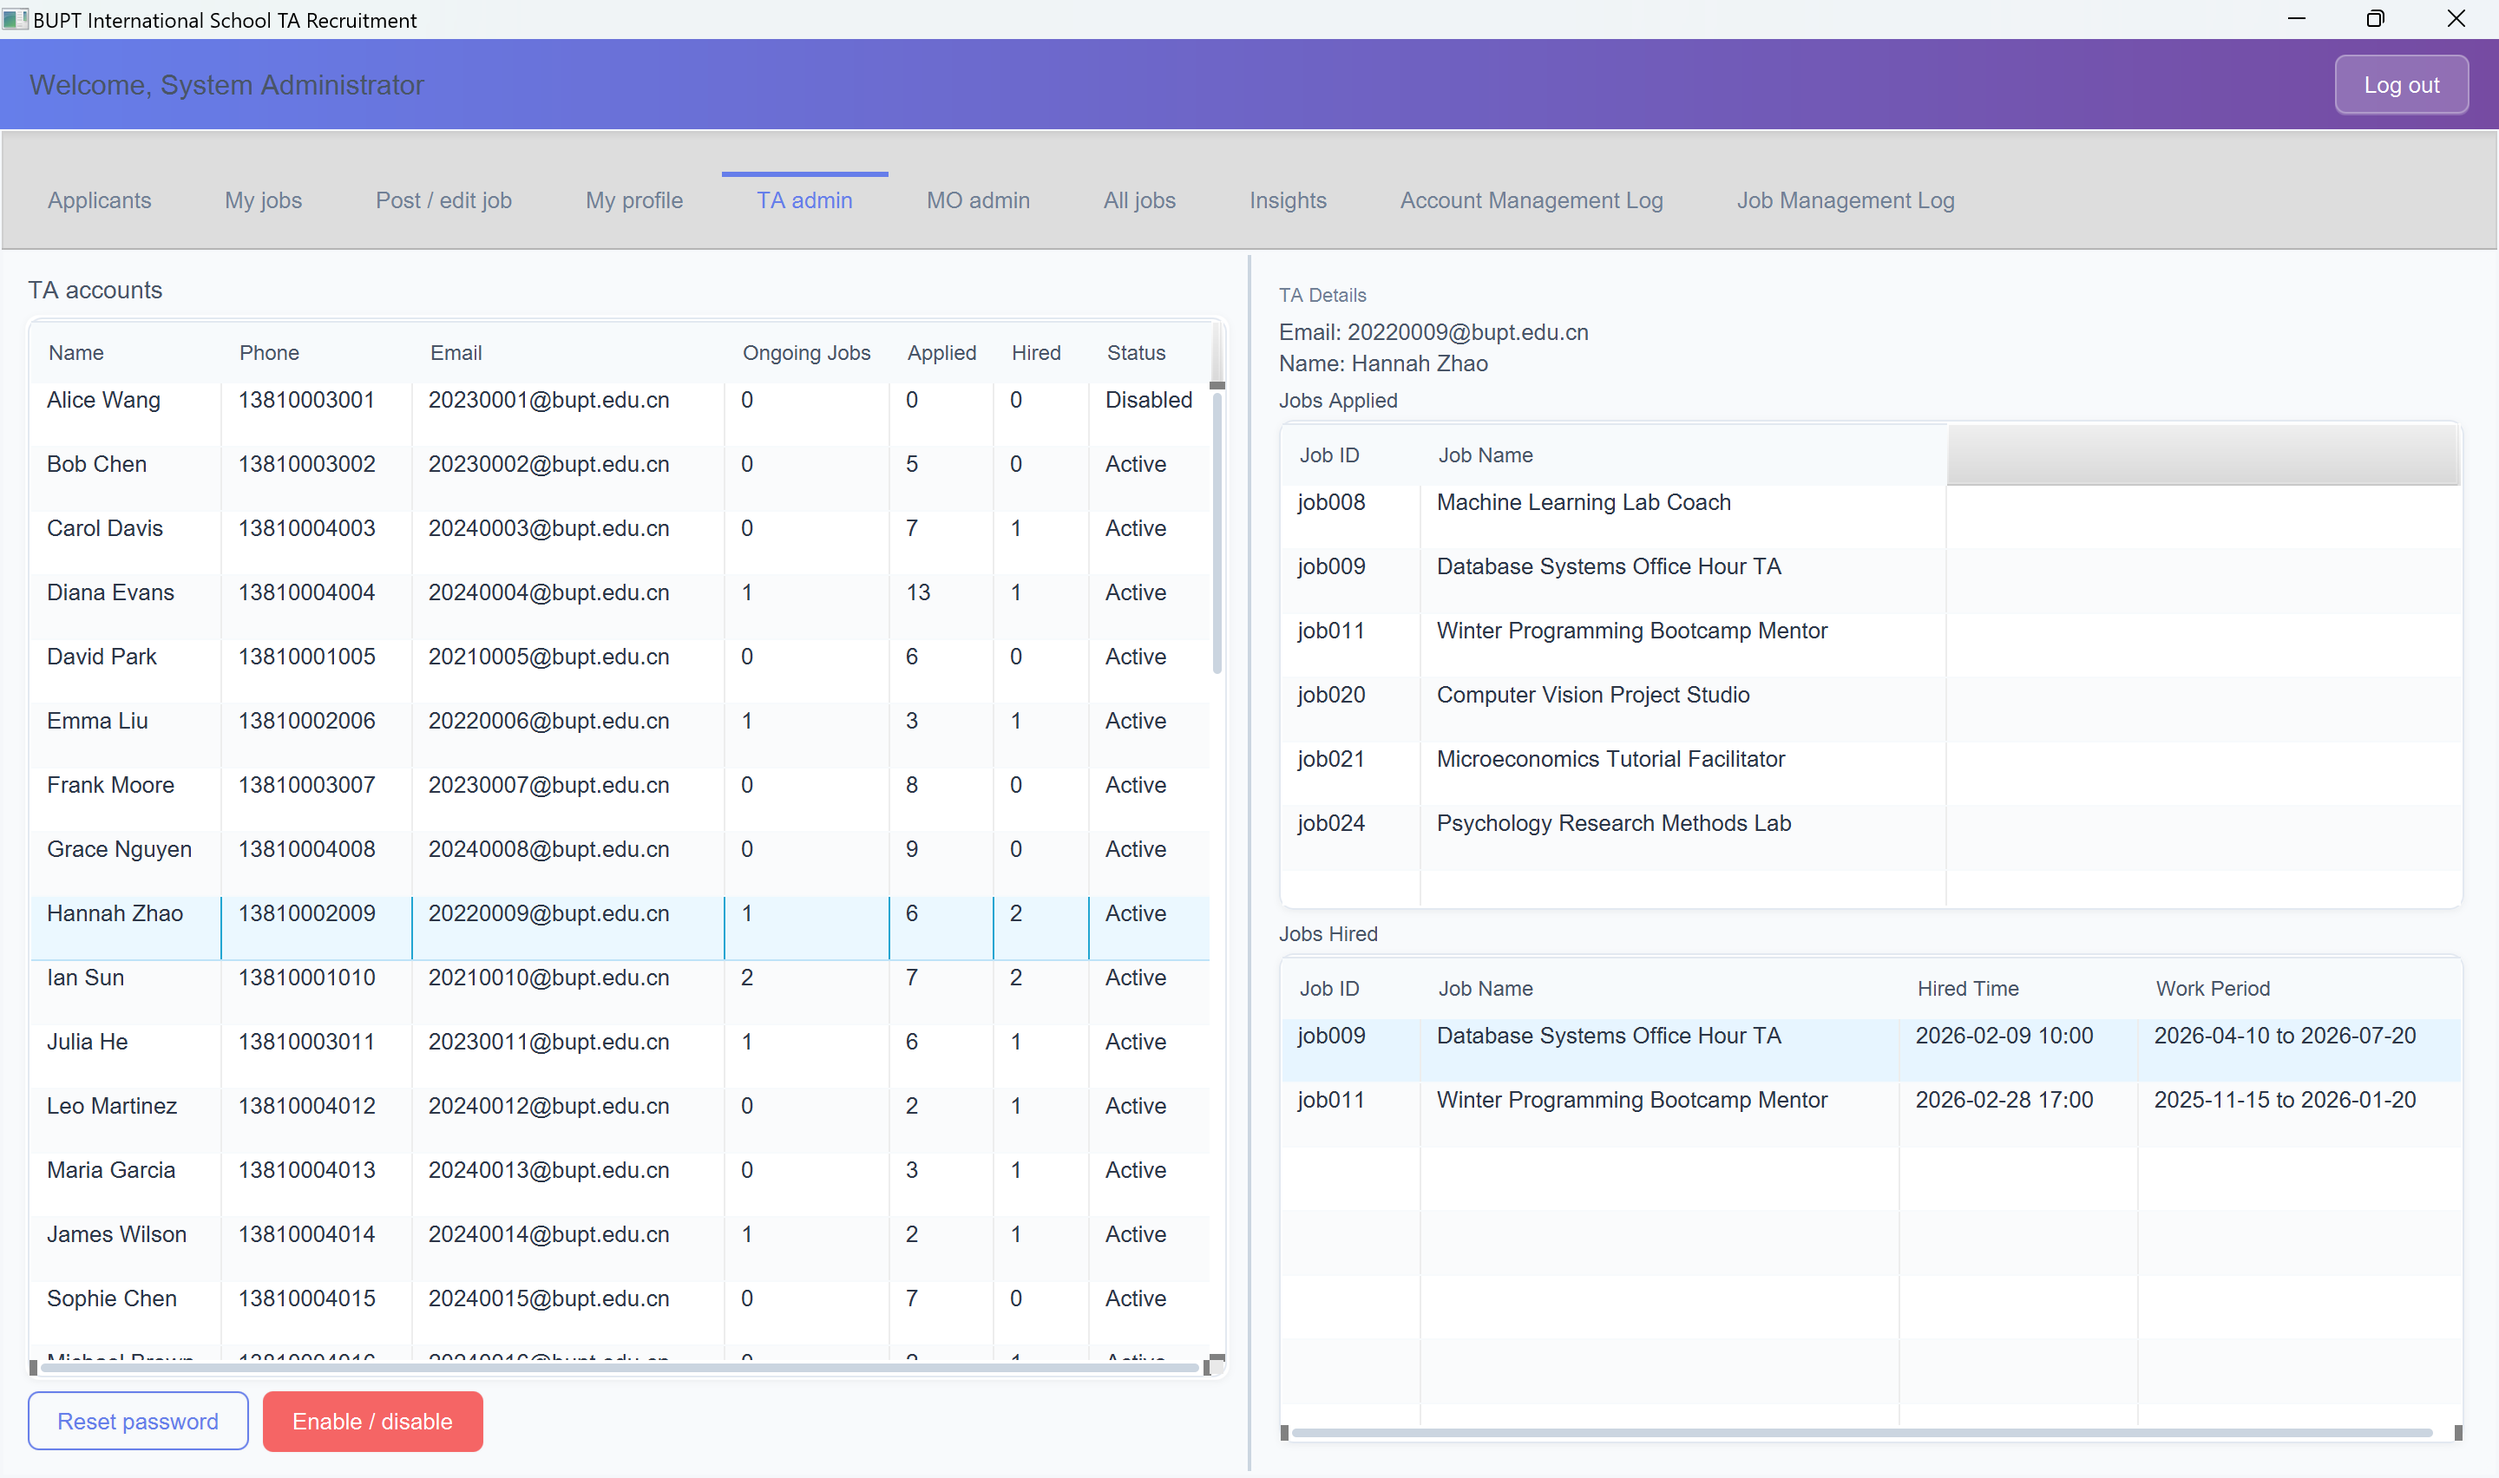
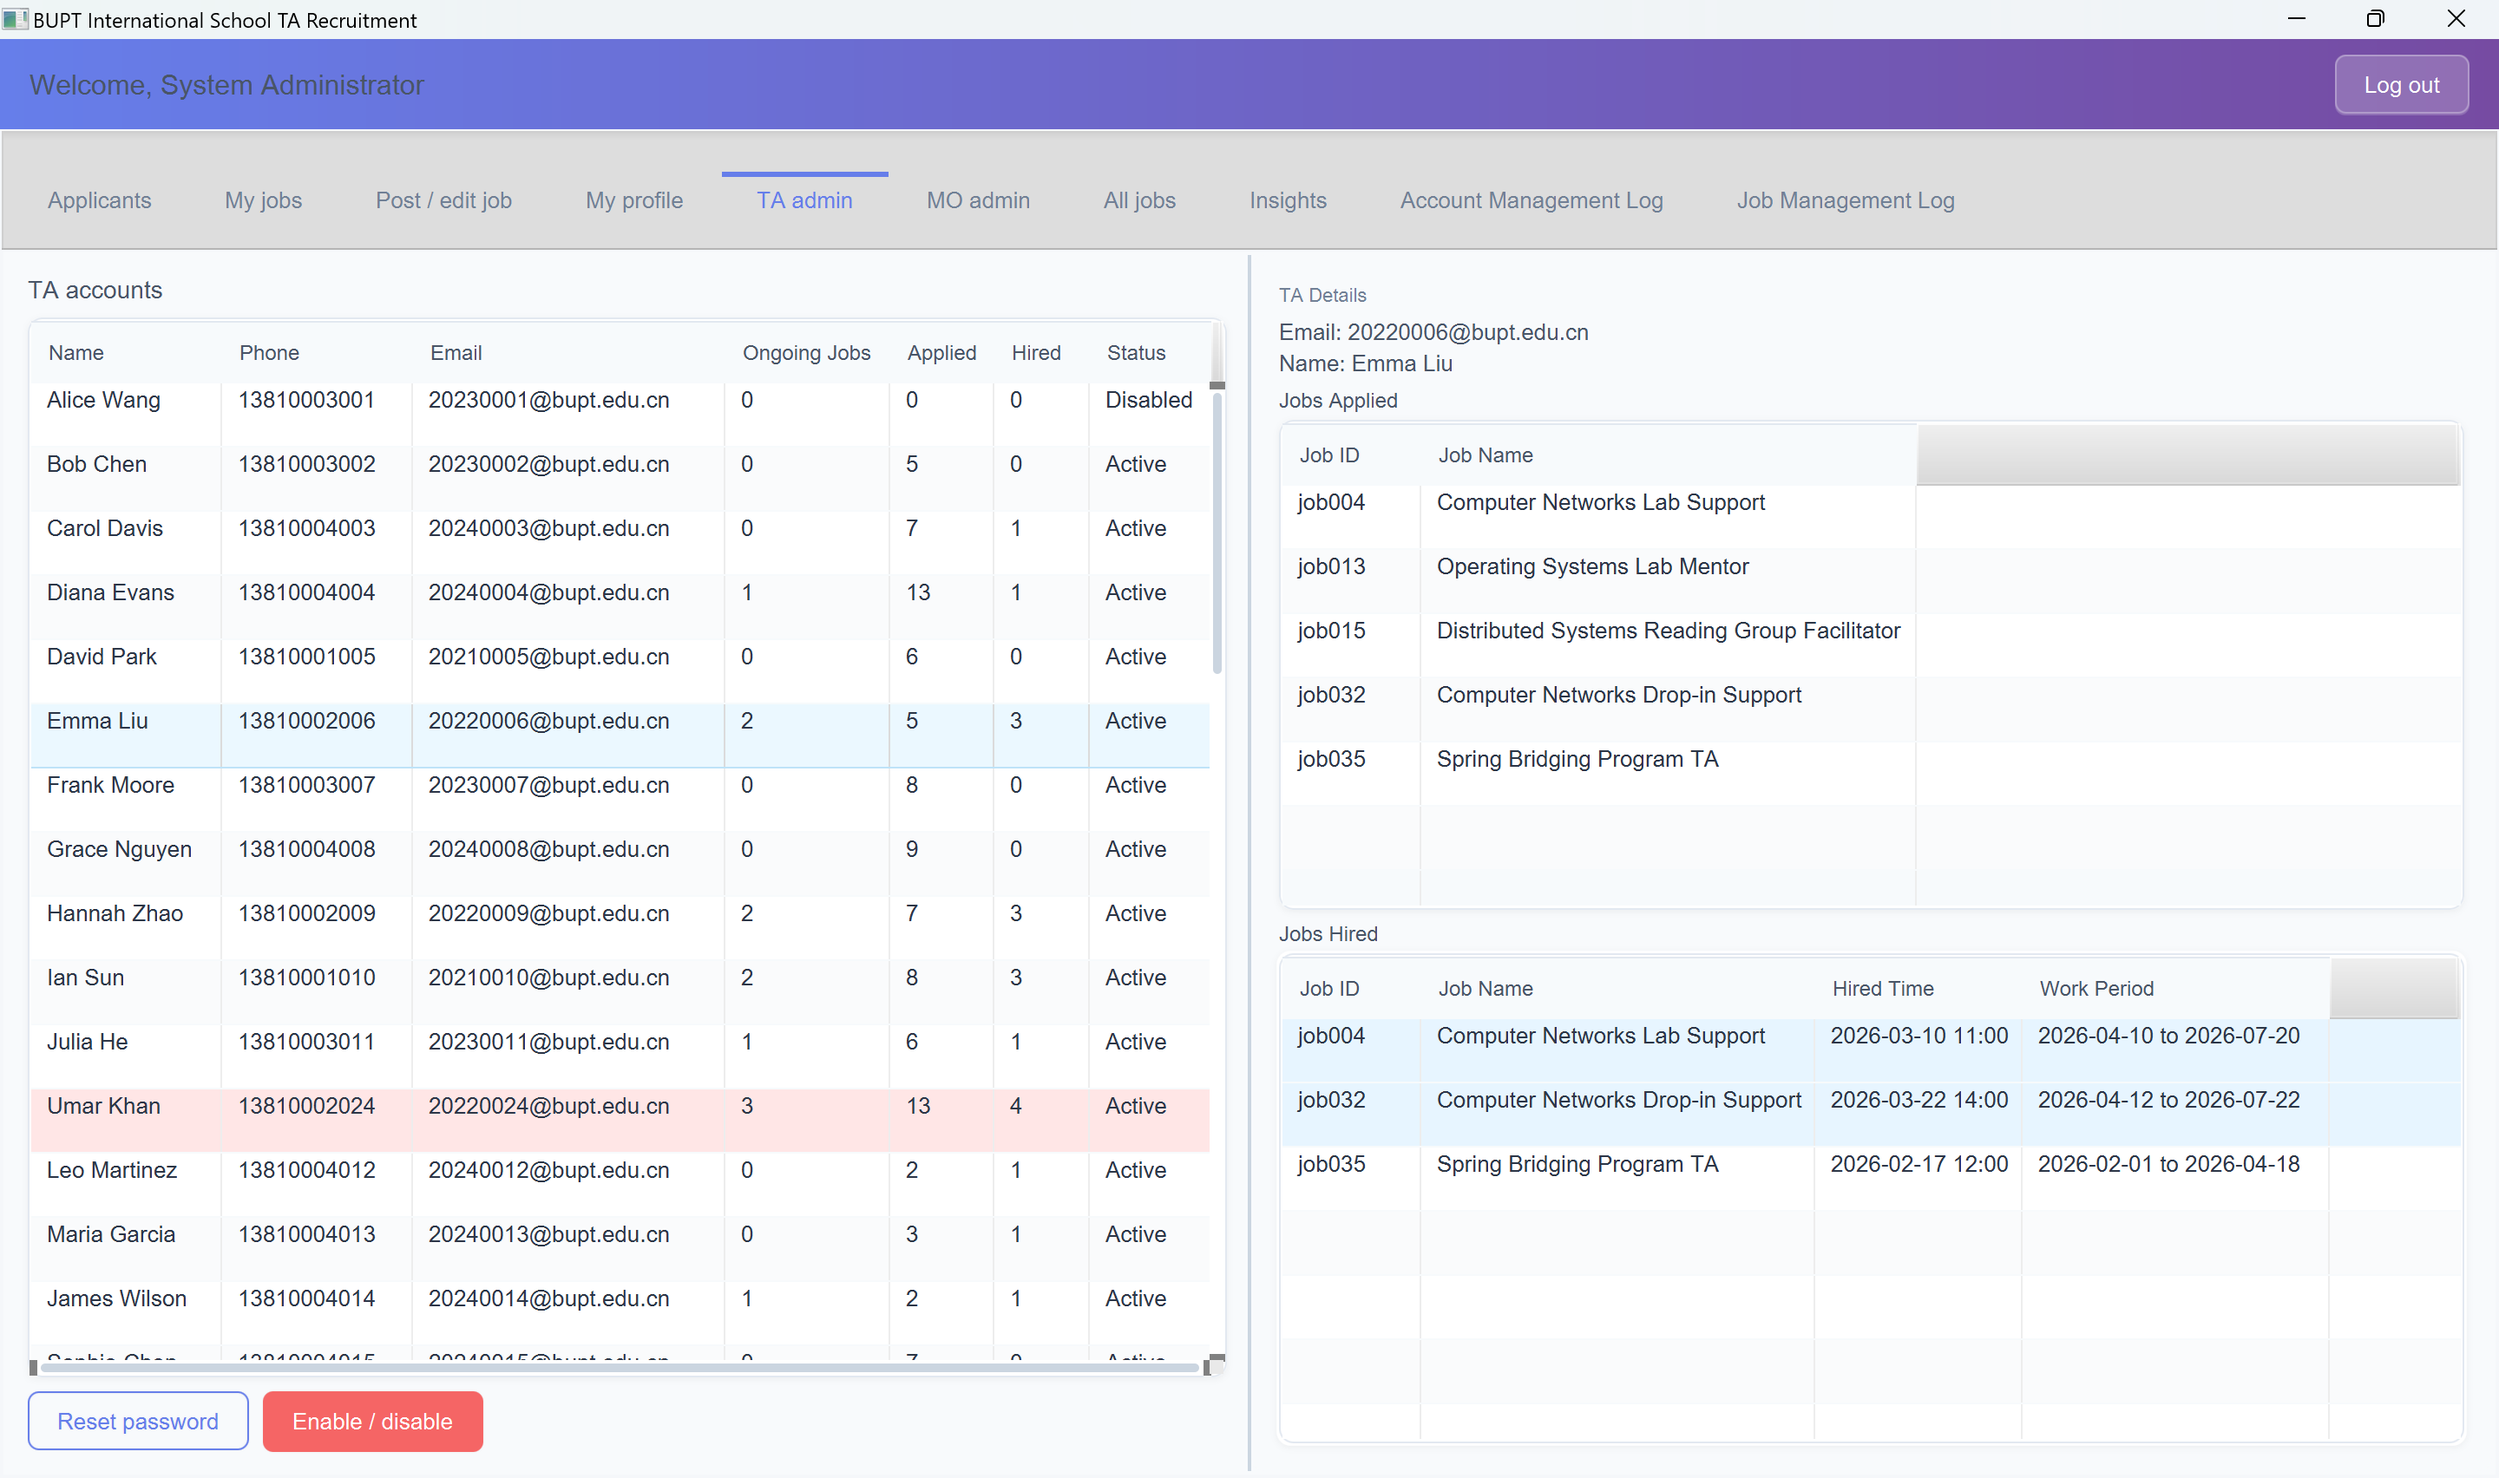
fix: implement log persistence and adjust TA admin in user manual

diff --git a/doc/User_Manual.md b/doc/User_Manual.md
@@ -734,9 +734,20 @@ Sign in to the **MO/Admin Portal** with your **administrator account**. The dash
 
 ### 6.1 TA admin
 
-**Left:** TA accounts table — Name, Phone, Email, Ongoing Jobs, Applied, Hired, Status.
+The screen is split into a **left** TA accounts list and a **right** detail panel. Click a row on the left to select that TA — the selected row is highlighted **blue** — and the right side shows that person’s **Jobs Applied** and **Jobs Hired** tables (application and hire history).
 
-**Right:** TA Details — applied jobs table, hired jobs table (with Hired Time, Work Period).
+**Left — TA accounts table:** Name, Phone, Email, **Ongoing Jobs** (currently in-progress hired positions), **Applied** (how many jobs they have ever applied to, including ended jobs), **Hired** (how many jobs they have ever been hired for, including ended jobs), Status.
+
+- Rows with a **light red** background indicate the TA has **more than 2** ongoing hired jobs (the workload warning threshold is **2**). This flags that the person may already be under heavy commitment; take it into account when hiring. The same rule triggers a **Confirm** warning when an MO tries to **Hire** that TA and they already have **2 or more** overlapping hired jobs (see Section 5.2).
+
+**Right — TA Details**
+
+| Table | Content |
+|-------|---------|
+| **Jobs Applied** | Jobs this TA has applied to (non-withdrawn applications) |
+| **Jobs Hired** | Jobs where this TA was hired — **Hired Time**, **Work Period** |
+
+In **Jobs Hired**, rows for jobs that are **currently in progress** (today falls between the job’s start and end dates) are highlighted **blue** so you can spot active assignments at a glance.
 
 **Actions**
 
